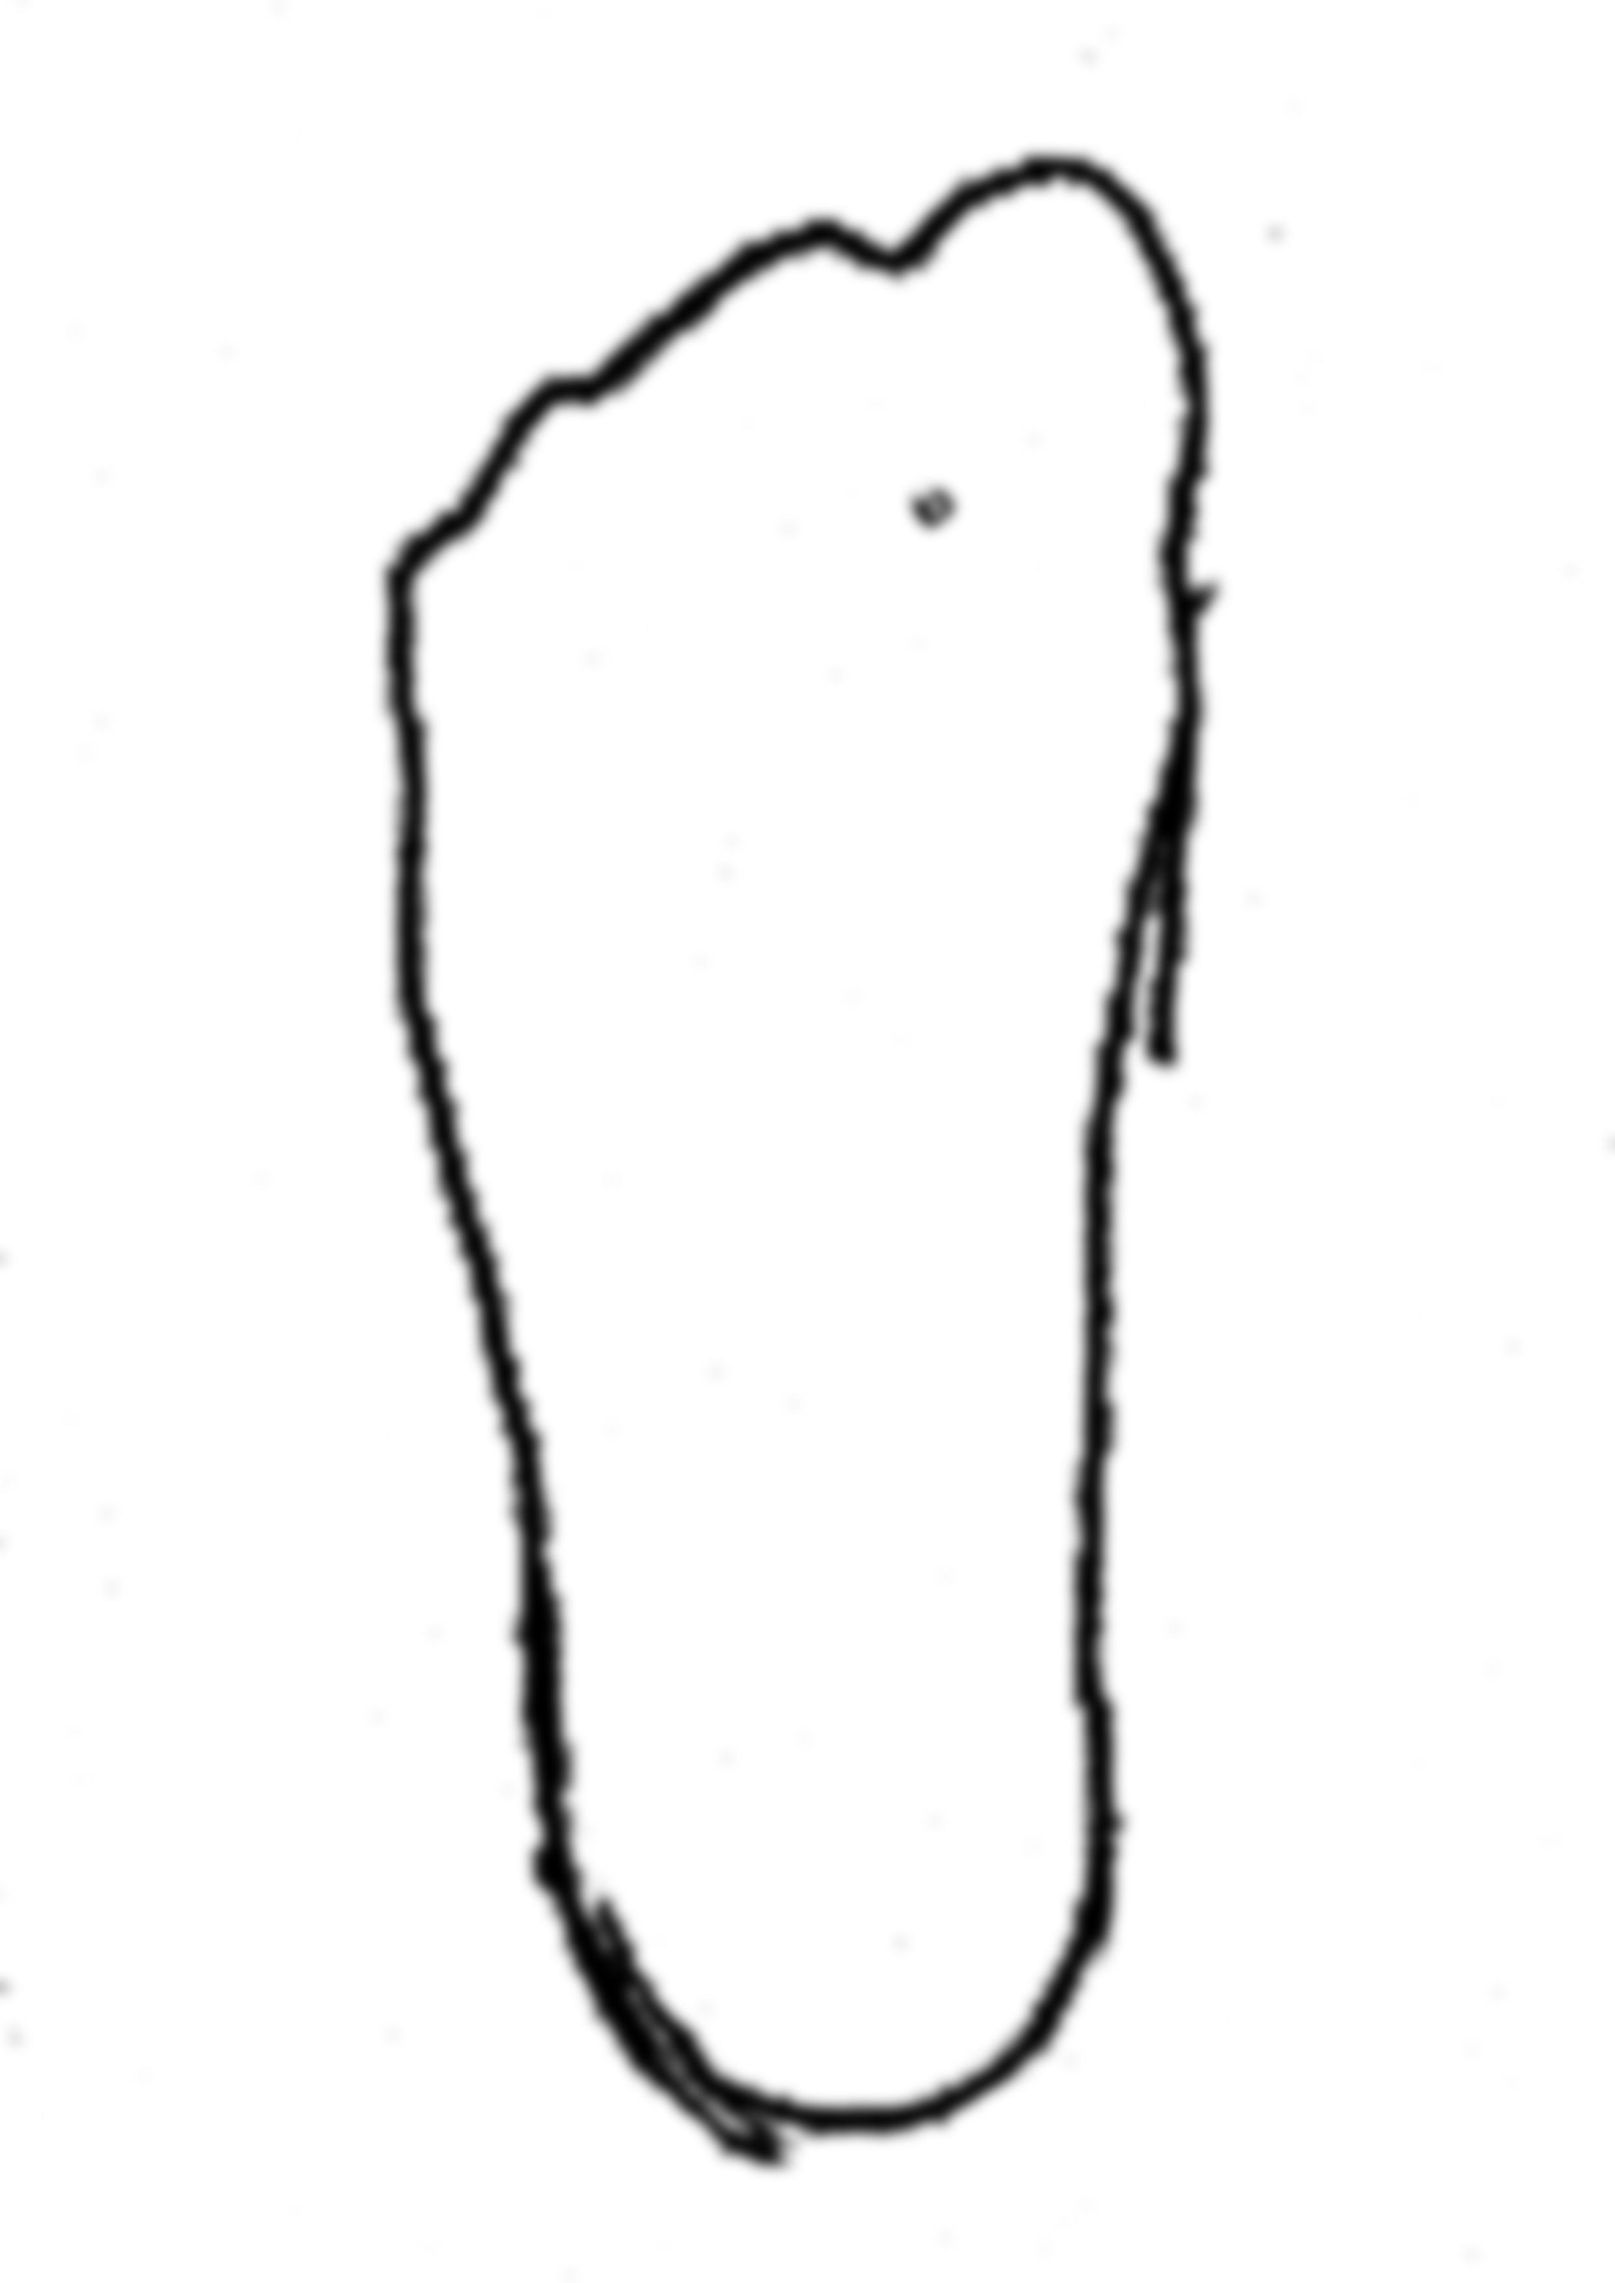
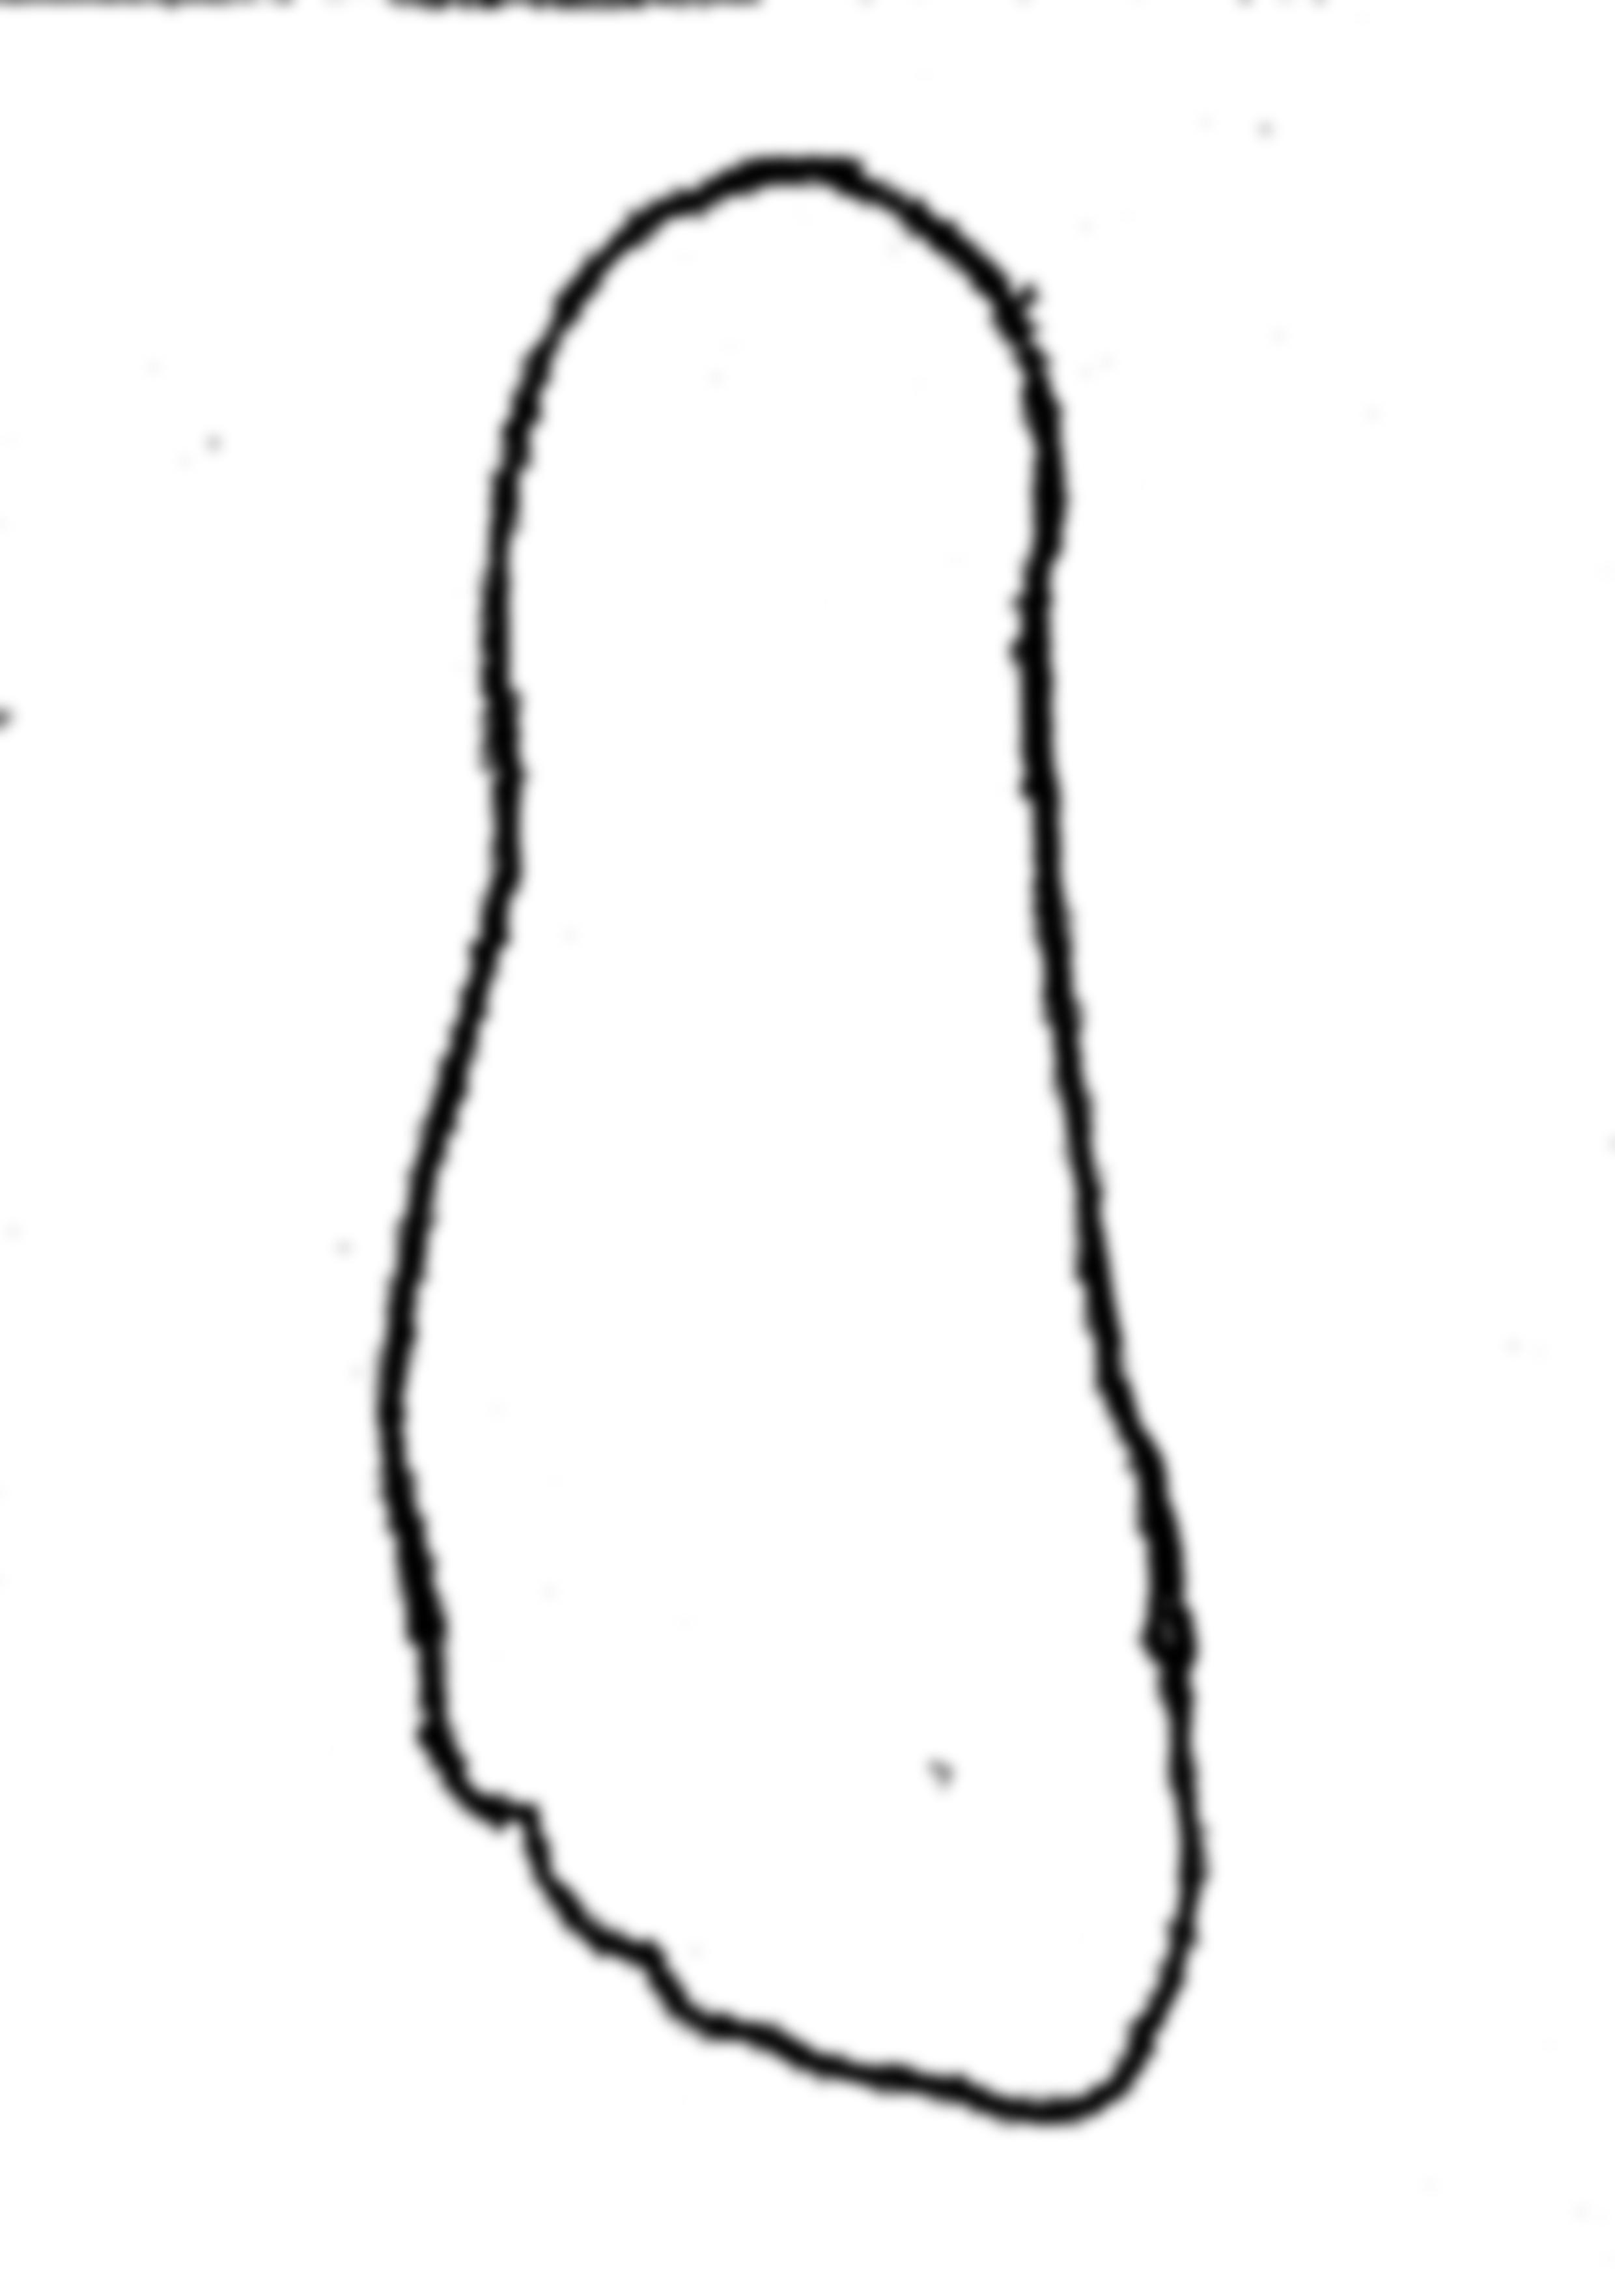
Seems to be working okay with this image

diff --git a/TemplateCreator.py b/TemplateCreator.py
@@ -35,7 +35,7 @@ def vectorize_image(image):
 	ret, im = cv2.threshold(gray, 100, 255, cv2.THRESH_BINARY_INV)
 	contours, hierarchy  = cv2.findContours(im, cv2.RETR_EXTERNAL, cv2.CHAIN_APPROX_SIMPLE)
 
-	epsilon = 0.01 * cv2.arcLength(contours[0], True)
+	epsilon = 0.0075 * cv2.arcLength(contours[0], True)
 	poly_contour = cv2.approxPolyDP(contours[0], epsilon, True)
 
 	
@@ -43,7 +43,7 @@ def vectorize_image(image):
 
 	points = np.squeeze(poly_contour)
 	print(points)
-	tck, u = splprep(points.T, u=None, s=0.0, per=1)   # Spline fitting
+	tck, u = splprep(points.T, u=None, s=0, per=1)   # Spline fitting
 	u_new = np.linspace(u.min(), u.max(), 1000)
 	x_new, y_new = splev(u_new, tck, der=0)
 	# smooth_contours.append(np.column_stack(smooth_curve).astype(np.int32))
@@ -62,7 +62,7 @@ def vectorize_image(image):
 	plt.title('Edge Image'), plt.xticks([]), plt.yticks([])
 	plt.show()
 
-pic = load_image("/home/benjamin/Documents/Projects/RAM/left.jpg")
+pic = load_image("/home/benjamin/Documents/Projects/RAM/right2.jpg")
 
 epic = enhance_image(pic)
 epic.save("enhanced.jpg")
